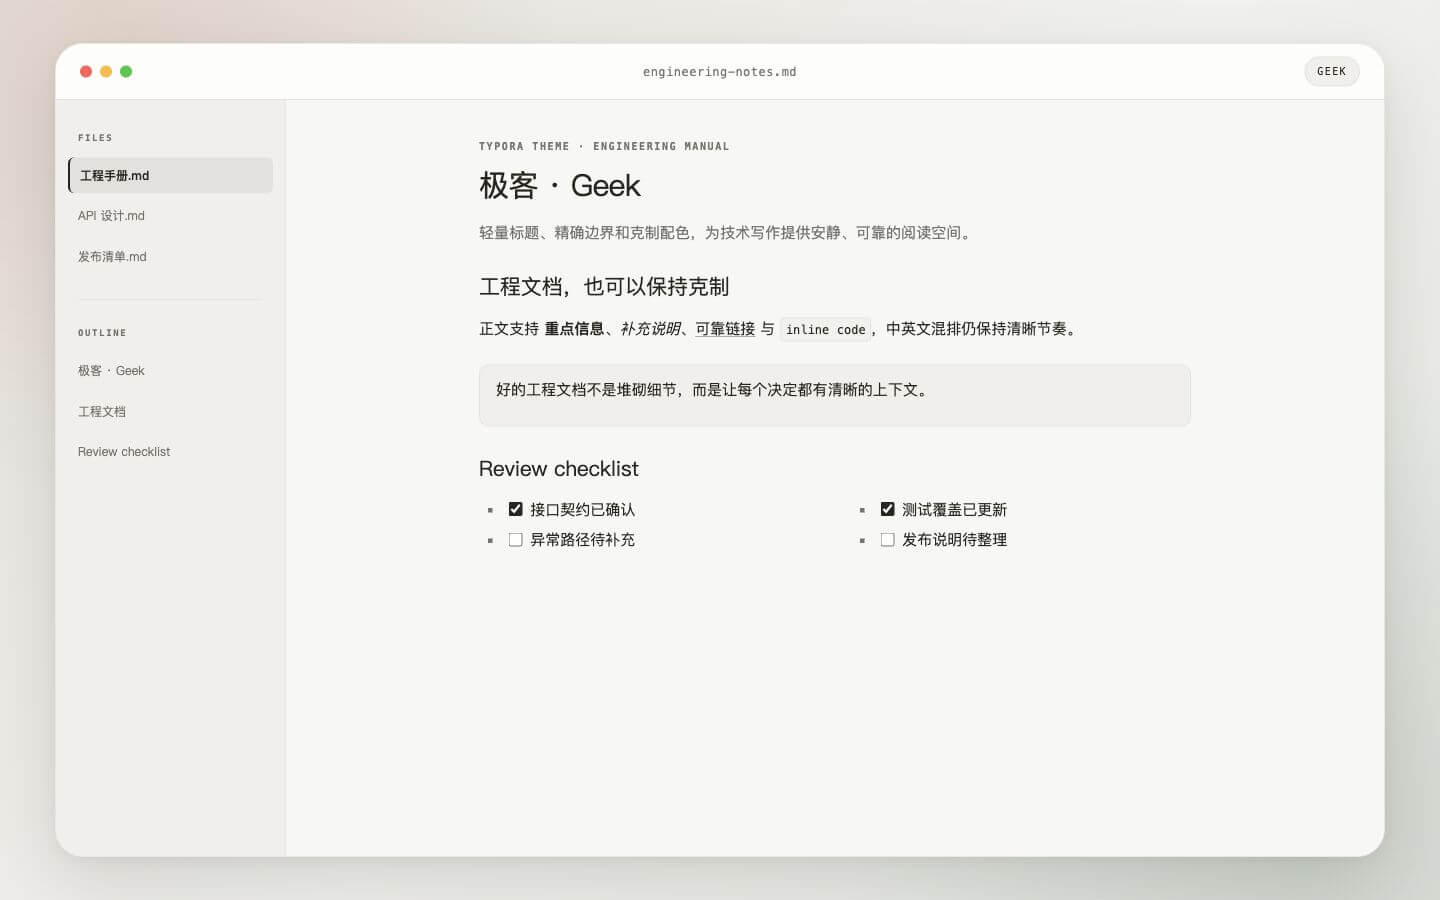
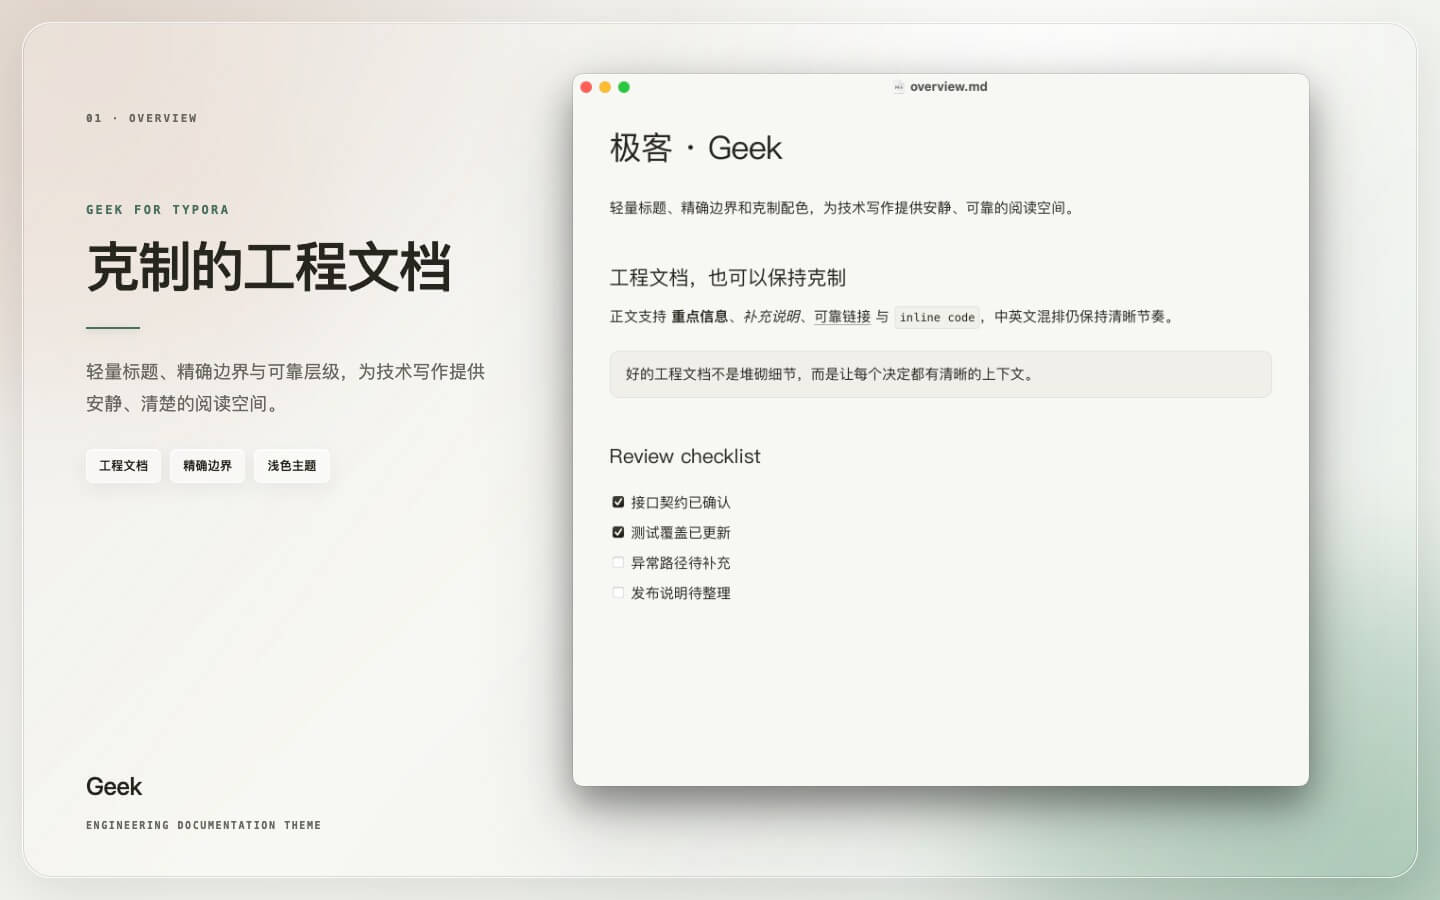
docs: refresh theme previews

Changed region(s): [[0.0312, 0.0311, 1.0, 1.0], [0.5938, 0.56, 0.7188, 0.6222], [0.1875, 0.4978, 0.2188, 0.5289]]

diff --git a/folio/README.md b/folio/README.md
@@ -4,6 +4,14 @@ Folio 是一套介于产品文档与编辑刊物之间的 Typora 主题，提供
 
 它参考 Claude Platform Docs 的视觉语言：衬线标题、无衬线正文、暖中性色、低对比边界和克制的代码组件。主题没有复制或打包 Anthropic 的字体、图片或源 CSS。
 
+## 预览
+
+![Folio Typora 主题总览](./preview/overview.jpg)
+
+![Folio 主题的语义提示与表格](./preview/content.jpg)
+
+![Folio Dark 主题的代码标签组与图表](./preview/code.jpg)
+
 ## 文件
 
 - `folio.css`：暖白浅色版本。
@@ -11,6 +19,8 @@ Folio 是一套介于产品文档与编辑刊物之间的 Typora 主题，提供
 - `folio-enhancer.js`：无依赖的实验性代码标签组增强器。
 - `install-macos.sh`：带备份、恢复和卸载能力的 macOS 安装脚本。
 - `folio-test.md`：覆盖排版、代码、图表、图片和 Typora 状态的测试文档。
+- `preview/`：用于 README 展示的 1440 × 900 主题效果图。
+- `preview-source/`：用于在 Typora 中拍摄真实主题效果的预览文档和截图说明。
 
 ## 视觉系统
 

diff --git a/folio/preview-source/README.md b/folio/preview-source/README.md
@@ -1,0 +1,19 @@
+# Folio 预览截图说明
+
+这三份 Markdown 用于在 Typora 中生成真实界面截图，后续再统一制作 1440 × 900 的宣传图。
+
+## 截图对应关系
+
+- `overview.md`：选择 `Folio` 浅色主题。
+- `content.md`：选择 `Folio` 浅色主题。
+- `code.md`：选择 `Folio Dark` 深色主题，并确认 Folio Enhancer 已启用，使两个代码块显示为标签组。
+
+## 截图前设置
+
+1. 将 Typora 缩放设为 100%，关闭源码模式、专注模式和打字机模式。
+2. 隐藏文件树与大纲侧栏，让编辑区占满窗口。
+3. 将文档滚动到顶部；点击标题栏或正文空白处，避免代码块处于编辑聚焦状态。
+4. 三张截图保持相同的 Typora 窗口尺寸，建议不小于 1200 × 780。
+5. 使用 macOS 窗口截图并保留原始 PNG，不要裁切、缩放或压缩。
+
+完成后提供三张原始截图；宣传图会统一处理画布、留白、背景、窗口圆角与阴影。

diff --git a/geek/README.md b/geek/README.md
@@ -8,7 +8,7 @@
 
 ![极客主题的提示、列表与表格](./preview/content.jpg)
 
-![极客主题的代码、数学公式与 Mermaid 图表](./preview/code.jpg)
+![极客主题的代码与 Mermaid 图表](./preview/code.jpg)
 
 ## 视觉特征
 
@@ -25,6 +25,7 @@
 - `geek-dark.css`：深色 `Geek Dark` 主题，通过本地导入复用 `geek.css`，不依赖网络资源。
 - `geek-test.md`：覆盖标题、引用、列表、任务、表格、代码、数学公式、Mermaid、脚注和打印的测试文档。
 - `preview/`：用于 README 展示的 1440 × 900 主题效果图。
+- `preview-source/`：用于在 Typora 中拍摄真实主题效果的预览文档和截图说明。
 
 脚手架生成的 `geek/` 资源目录当前为空，是为未来的本地字体或图片资源保留的标准主题目录。
 

diff --git a/island/preview-source/README.md b/island/preview-source/README.md
@@ -1,0 +1,17 @@
+# Island 预览截图说明
+
+## 截图对应关系
+
+- `overview.md`：主题总览。
+- `content.md`：连续图片画廊与表格。
+- `code.md`：代码块与 Mermaid 图表。
+
+三份文档均选择 `Island` 主题。
+
+## 截图设置
+
+1. Typora 缩放设为 100%，关闭源码模式、专注模式和打字机模式。
+2. 隐藏文件树与大纲侧栏，将文档滚动到顶部。
+3. 点击标题栏或正文空白处，避免代码块处于编辑聚焦状态。
+4. 使用与 Folio 截图相同的窗口尺寸和 macOS 窗口截图方式。
+5. 分别保存为 `overview.png`、`content.png` 和 `code.png`，保留透明背景和原始分辨率。

diff --git a/island/README.md b/island/README.md
@@ -8,7 +8,7 @@
 
 ![岛屿主题的画廊与表格](./preview/content.jpg)
 
-![岛屿主题的代码、数学公式与 Mermaid 图表](./preview/code-diagram.jpg)
+![岛屿主题的代码与 Mermaid 图表](./preview/code-diagram.jpg)
 
 ## 文件
 
@@ -17,6 +17,7 @@
 - `island-fonts/`：与 `animal-island-ui` 对齐的 Nunito 与 Noto Sans SC 本地字体及许可证。
 - `island-assets/`：主题专属视觉资源；分割线使用 Divider 组件的 `line-yellow` 原始 SVG。
 - `preview/`：用于 README 展示的主题效果图。
+- `preview-source/`：用于在 Typora 中拍摄真实主题效果的预览文档和截图说明。
 
 ## 安装
 

diff --git a/geek/preview-source/README.md b/geek/preview-source/README.md
@@ -1,0 +1,15 @@
+# Geek 预览截图说明
+
+## 截图对应关系
+
+- `overview.md`：选择 `Geek` 浅色主题。
+- `content.md`：选择 `Geek` 浅色主题。
+- `code.md`：选择 `Geek Dark` 深色主题。
+
+## 截图设置
+
+1. Typora 缩放设为 100%，关闭源码模式、专注模式和打字机模式。
+2. 隐藏文件树与大纲侧栏，将文档滚动到顶部。
+3. 点击标题栏或正文空白处，避免代码块处于编辑聚焦状态。
+4. 使用与 Folio 截图相同的窗口尺寸和 macOS 窗口截图方式。
+5. 分别保存为 `overview.png`、`content.png` 和 `code.png`，保留透明背景和原始分辨率。

diff --git a/folio/preview-source/code.md b/folio/preview-source/code.md
@@ -1,0 +1,28 @@
+# 专注于内容，而不是容器
+
+深色版本延续同一排版系统，并为代码标签组、语法标记与图表提供更清晰的层级。
+
+> ```python
+> from anthropic import Anthropic
+>
+> client = Anthropic()
+> message = client.messages.create(
+>     model="claude-opus-5",
+>     max_tokens=1024,
+> )
+> ```
+>
+> ```typescript
+> import Anthropic from "@anthropic-ai/sdk";
+>
+> const client = new Anthropic();
+> const message = await client.messages.create({
+>   model: "claude-opus-5",
+>   max_tokens: 1024,
+> });
+> ```
+
+```mermaid
+flowchart LR
+  草稿 --> 检查 --> 发布
+```

diff --git a/geek/preview-source/content.md b/geek/preview-source/content.md
@@ -1,0 +1,19 @@
+# 清晰的信息结构
+
+提示、列表与表格使用精确的间距和边界，让复杂工程信息保持可扫描、可追踪。
+
+> 修改应小而明确，并且能够被验证。每个决定都需要留下必要的上下文。
+
+## Delivery steps
+
+1. 定义接口和验收条件
+2. 覆盖正常与异常路径
+3. 检查构建和发布输出
+
+## Status matrix
+
+| Area | Editing | Preview | Status |
+| --- | --- | --- | --- |
+| Docs | Mixed editing | Live render | **Stable** |
+| Code | Syntax tokens | Terminal card | Covered |
+| Diagram | Source + preview | Document panel | Verified |

diff --git a/folio/preview-source/content.md b/folio/preview-source/content.md
@@ -1,0 +1,17 @@
+# 清晰、克制的信息层级
+
+语义提示、列表与表格共享一套低对比边界，让复杂内容保持可扫描、可比较。
+
+> [!NOTE]
+> 模型能力与上下文窗口可以通过接口查询。
+
+> [!WARNING]
+> 修改生产配置前，请保留可恢复的版本和操作记录。
+
+## 状态矩阵
+
+| 区域 | 编辑态 | 预览态 | 状态 |
+| --- | --- | --- | --- |
+| 正文 | 混合编辑 | 即时渲染 | **稳定** |
+| 代码 | 语法高亮 | 文档卡片 | 已覆盖 |
+| 图表 | 源码 + 预览 | 低对比表面 | 已验证 |

diff --git a/geek/preview-source/overview.md b/geek/preview-source/overview.md
@@ -1,0 +1,16 @@
+# 极客 · Geek
+
+轻量标题、精确边界和克制配色，为技术写作提供安静、可靠的阅读空间。
+
+## 工程文档，也可以保持克制
+
+正文支持 **重点信息**、*补充说明*、[可靠链接](https://typora.io) 与 `inline code`，中英文混排仍保持清晰节奏。
+
+> 好的工程文档不是堆砌细节，而是让每个决定都有清晰的上下文。
+
+## Review checklist
+
+- [x] 接口契约已确认
+- [x] 测试覆盖已更新
+- [ ] 异常路径待补充
+- [ ] 发布说明待整理

diff --git a/folio/preview-source/overview.md b/folio/preview-source/overview.md
@@ -1,0 +1,16 @@
+# Folio · 文档与刊物之间
+
+衬线标题、无衬线正文、暖中性色与低对比边界，共同构成安静而清晰的长文阅读空间。
+
+## 让结构自然浮现
+
+正文支持 **重点信息**、*轻量注解*、[链接](https://typora.io)，以及克制的 `inline code`。
+
+> 好的文档主题不该争夺注意力，而应让结构、节奏和内容自然浮现。
+
+## 编辑清单
+
+- [x] 确认内容层级
+- [x] 校对术语与链接
+- [ ] 检查代码示例
+- [ ] 导出发布版本

diff --git a/island/preview-source/overview.md b/island/preview-source/overview.md
@@ -1,0 +1,16 @@
+# 岛屿 · Island
+
+暖纸、绿叶与圆角构成轻松的写作空间，让长文阅读保留清晰节奏，也带一点手作般的温度。
+
+## 文字与呼吸
+
+正文支持 **重点强调**、*轻声注解*、[链接](https://typora.io)，以及柔和的 `inline code` 标签。
+
+> 岛屿不是离群的陆地，而是海面上彼此遥望的坐标。
+
+## 今日清单
+
+- [x] 整理草稿与标题
+- [x] 统一图片与图表
+- [ ] 检查段落的呼吸
+- [ ] 导出最后一版
